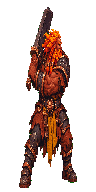
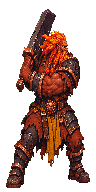
Add Tyrmor lizardfolk dialogue and refine Valjevo art

diff --git a/docs/COVERAGE.md b/docs/COVERAGE.md
@@ -2753,6 +2753,8 @@ threshold tiles.
 The Valjevo transition hall and stone chamber add 14 oak and ashlar
 tiles. Their Chrome replays check 1,331 placements across 11 views,
 including the hall's area 5 to area 3 transition.
+Two lower-wing routes check ten new wall, doorway, and window tiles
+across 14 Chrome views.
 The Valjevo bucket-trap battle uses scoped 4× fire giant ready and attack
 sprites. Its Chrome replay checks the attack during the original combat report.
 The Valjevo kitchen corridor, jamb, and south yard now use tamped-clay
@@ -2838,6 +2840,8 @@ attack with the installed pack and checks that display switching leaves
 the selected save intact.
 The Tyrmor prison priest replay checks the middle and near approach
 sprites at each stop and the portrait at his benediction.
+The Tyrmor prison lizardfolk use a separate approach and group
+illustration, verified through the original Parlay prompt in Chrome.
 
 `valhingen-spectre-approach` checks the new far pose before the middle
 pose, including frame dimensions, screen placement, and mode switching.
